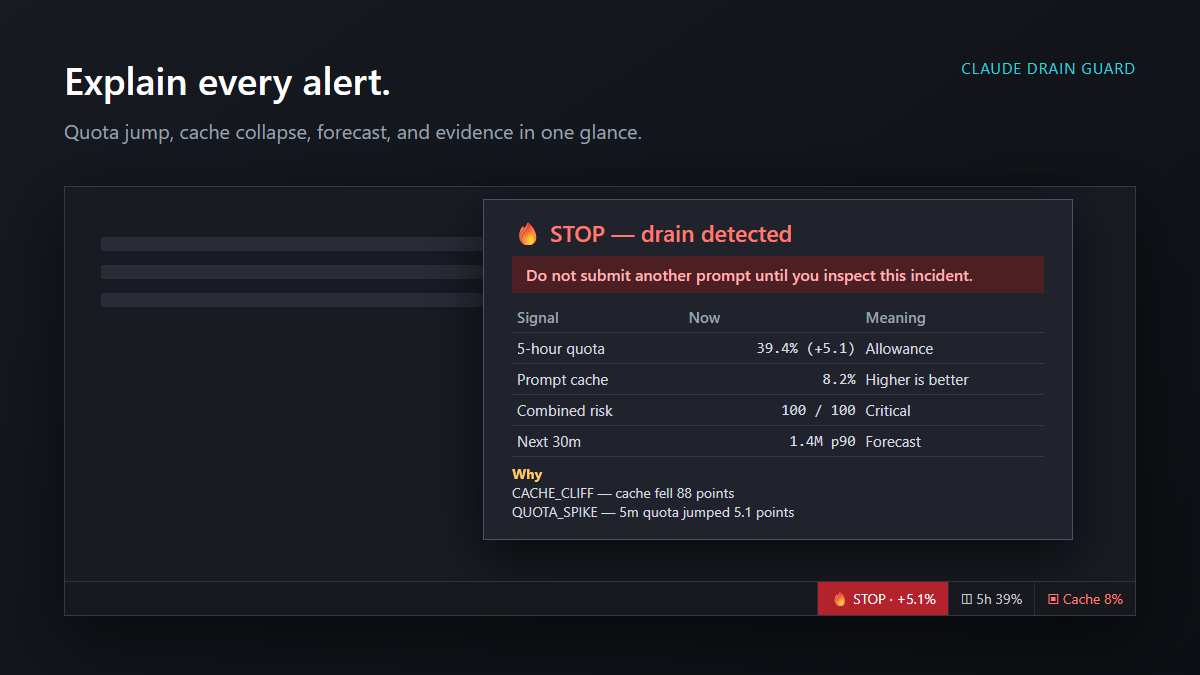
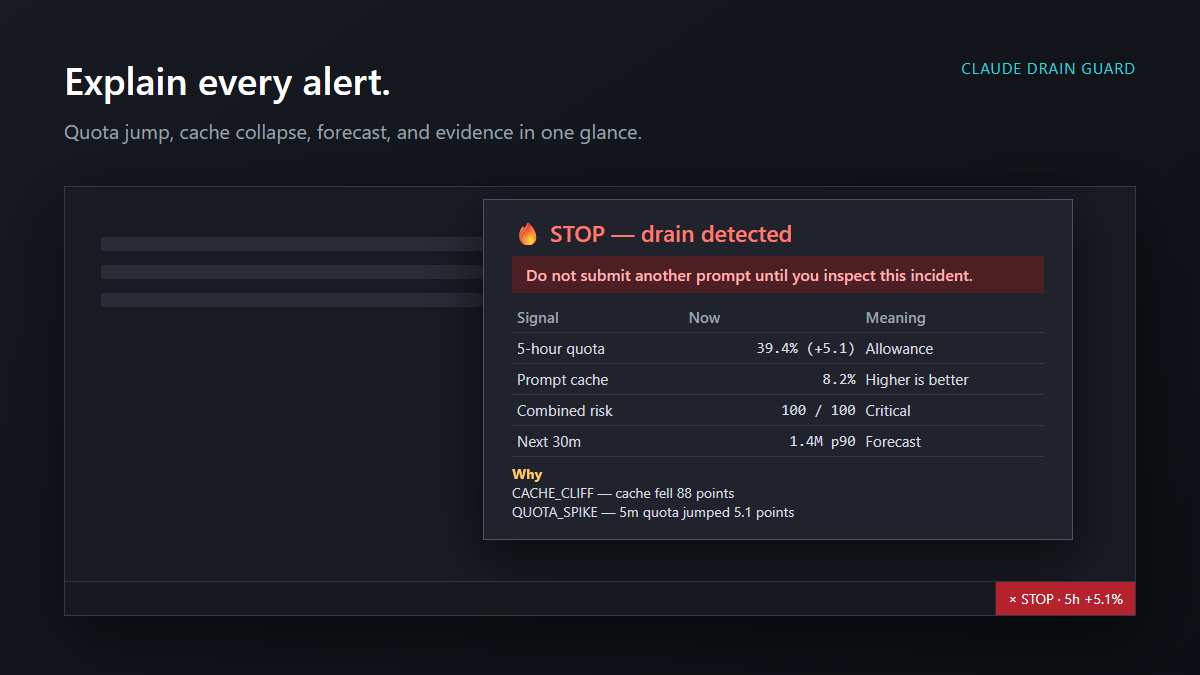
Redesign status bar and Marketplace visuals

Changed region(s): [[0.6783, 0.84, 0.9558, 0.9333]]

diff --git a/src/extension.js b/src/extension.js
@@ -23,15 +23,11 @@ class DrainGuard {
     this.alertState = { level: 'healthy', healthyStreak: 0 };
     this.scanTimer = null;
     const alignment = this.config.alignment === 'left' ? vscode.StatusBarAlignment.Left : vscode.StatusBarAlignment.Right;
-    this.healthStatus = vscode.window.createStatusBarItem('claudeDrainGuard.health', alignment, 92);
-    this.quotaStatus = vscode.window.createStatusBarItem('claudeDrainGuard.quota', alignment, 91);
-    this.cacheStatus = vscode.window.createStatusBarItem('claudeDrainGuard.cache', alignment, 90);
-    this.healthStatus.name = 'Claude Guard: health';
-    this.quotaStatus.name = 'Claude Guard: five-hour quota';
-    this.cacheStatus.name = 'Claude Guard: prompt cache';
-    for (const item of [this.healthStatus, this.quotaStatus, this.cacheStatus]) {
-      item.command = 'claudeDrainGuard.showDetails'; item.show(); context.subscriptions.push(item);
-    }
+    this.status = vscode.window.createStatusBarItem('claudeDrainGuard.status', alignment, 92);
+    this.status.name = 'Claude Drain Guard';
+    this.status.command = 'claudeDrainGuard.showDetails';
+    this.status.show();
+    context.subscriptions.push(this.status);
   }
 
   readConfig() {
@@ -157,29 +153,24 @@ class DrainGuard {
 
   render(turn, analysis) {
     if (!turn) {
-      this.healthStatus.text = '$(shield) Claude: idle';
-      this.healthStatus.tooltip = `Waiting for Claude Code activity in ${this.config.dataDirectory}`;
-      this.quotaStatus.hide(); this.cacheStatus.hide();
+      this.status.text = '$(shield) Guard · idle';
+      this.status.tooltip = `Claude Drain Guard\nWaiting for Claude Code activity.`;
+      this.status.backgroundColor = undefined;
       return;
     }
     const risk = analysis.displayRisk || analysis.risk;
-    const icon = risk === 'critical' ? '$(flame)' : risk === 'warning' ? '$(warning)' : '$(shield-check)';
     const quota = this.state.quotaSnapshots.at(-1);
     const delta = quota?.delta5h;
-    this.healthStatus.text = risk === 'critical'
-      ? `${icon} STOP${delta !== null && delta !== undefined ? ` · +${(delta * 100).toFixed(1)}%` : ''}`
-      : risk === 'warning' ? `${icon} WATCH · ${Math.round(analysis.score || 0)}` : `${icon} SAFE`;
-    this.healthStatus.backgroundColor = risk === 'critical' ? new vscode.ThemeColor('statusBarItem.errorBackground') : risk === 'warning' ? new vscode.ThemeColor('statusBarItem.warningBackground') : undefined;
-    this.cacheStatus.text = `$(database) Cache ${turn.cacheHit.toFixed(0)}%`;
-    this.cacheStatus.color = turn.cacheHit < 60 ? new vscode.ThemeColor('errorForeground') : turn.cacheHit < 80 ? new vscode.ThemeColor('editorWarning.foreground') : undefined;
-    this.cacheStatus.show();
-    if (quota) {
-      this.quotaStatus.text = `$(dashboard) 5h ${(quota.utilization5h * 100).toFixed(0)}%`;
-      this.quotaStatus.color = quota.utilization5h >= 0.9 ? new vscode.ThemeColor('errorForeground') : quota.utilization5h >= 0.7 ? new vscode.ThemeColor('editorWarning.foreground') : undefined;
-      this.quotaStatus.show();
-    } else this.quotaStatus.hide();
+    const quotaPart = quota ? `5h ${(quota.utilization5h * 100).toFixed(0)}%` : '5h —';
+    this.status.text = risk === 'critical'
+      ? `$(error) STOP · ${delta !== null && delta !== undefined ? `5h +${(delta * 100).toFixed(1)}%` : `Cache ${turn.cacheHit.toFixed(0)}%`}`
+      : risk === 'warning'
+        ? `$(warning) WATCH · Cache ${turn.cacheHit.toFixed(0)}%`
+        : `$(shield-check) ${quotaPart} · Cache ${turn.cacheHit.toFixed(0)}%`;
+    this.status.backgroundColor = risk === 'critical' ? new vscode.ThemeColor('statusBarItem.errorBackground') : risk === 'warning' ? new vscode.ThemeColor('statusBarItem.warningBackground') : undefined;
+    this.status.color = undefined;
     const tooltip = this.tooltip(turn, analysis);
-    this.healthStatus.tooltip = tooltip; this.quotaStatus.tooltip = tooltip; this.cacheStatus.tooltip = tooltip;
+    this.status.tooltip = tooltip;
   }
 
   tooltip(turn, analysis) {
@@ -187,15 +178,15 @@ class DrainGuard {
     const issues = (analysis.alerts || []).map(a => `- **${a.code}** — ${a.text}`).join('\n') || 'No anomaly detected.';
     const quota = this.state.quotaSnapshots.at(-1);
     const risk = analysis.displayRisk || analysis.risk;
-    const heading = risk === 'critical' ? '🔥 STOP — drain detected' : risk === 'warning' ? '⚠ WATCH — unusual activity' : '✅ SAFE — no drain detected';
+    const heading = risk === 'critical' ? 'STOP — drain detected' : risk === 'warning' ? 'WATCH — unusual activity' : 'Healthy';
     const quotaRow = quota ? `${(quota.utilization5h * 100).toFixed(1)}%${quota.delta5h === null || quota.delta5h === undefined ? '' : ` (+${(quota.delta5h * 100).toFixed(1)} pts / 5m)`}` : this.config.quotaEnabled ? 'Unavailable' : 'Off';
     const next = analysis.forecast ? `${compact(analysis.forecast.p50)} median / ${compact(analysis.forecast.p90)} p90` : 'Learning';
     const markdown = new vscode.MarkdownString(undefined, true);
-    markdown.appendMarkdown(`### ${heading}\n\n`);
-    if (risk === 'critical') markdown.appendMarkdown('**Do not submit another prompt until you inspect this incident.**\n\n');
-    markdown.appendMarkdown(`| Signal | Now | Meaning |\n|---|---:|---|\n| 5-hour quota | ${quotaRow} | Subscription allowance |\n| Prompt cache | ${turn.cacheHit.toFixed(1)}% | Higher is better |\n| Risk | ${Math.round(analysis.score || 0)}/100 | Combined anomaly score |\n| Current 5m | ${compact(slice?.fresh || 0)} fresh | ${slice?.calls || 0} calls |\n| Next 30m | ${next} | Bootstrap forecast |\n\n`);
-    markdown.appendMarkdown(`**Why**\n\n${issues}\n\n`);
-    markdown.appendMarkdown(`_${turn.model} · ${turn.project} · ${turn.contextBucket} context bucket_`);
+    markdown.appendMarkdown(`### Claude Drain Guard · ${heading}\n\n`);
+    if (risk === 'critical') markdown.appendMarkdown('**Pause before sending another prompt. Open the incident details first.**\n\n');
+    markdown.appendMarkdown(`| | Current |\n|---|---:|\n| **5-hour allowance** | ${quotaRow} |\n| **Cache hit** | ${turn.cacheHit.toFixed(1)}% |\n| **Five-minute fresh input** | ${compact(slice?.fresh || 0)} · ${slice?.calls || 0} calls |\n| **Risk score** | ${Math.round(analysis.score || 0)} / 100 |\n| **Next 30 minutes** | ${next} |\n\n`);
+    if (analysis.alerts?.length) markdown.appendMarkdown(`**What changed**\n\n${issues}\n\n`);
+    markdown.appendMarkdown(`---\n\n_${turn.model} · ${turn.project} · ${turn.contextBucket} context · click for recent activity_`);
     return markdown;
   }
 
@@ -231,8 +222,16 @@ class DrainGuard {
 
   showDetails() {
     const turns = this.state.turns.slice(-10).reverse();
-    const lines = turns.map(t => `${new Date(t.timestamp).toLocaleTimeString()}  cache ${t.cacheHit.toFixed(0)}%  fresh ${compact(t.fresh)}  out ${compact(t.output)}${t.alerts?.length ? `  ⚠ ${t.alerts.map(a => a.code).join(', ')}` : ''}`);
-    vscode.window.showQuickPick(lines.length ? lines : ['No Claude turns observed yet'], { title: 'Claude Drain Guard — latest turns', placeHolder: 'Five-minute slices are retained for 24 hours' });
+    const items = turns.map(t => ({
+      label: `${t.risk === 'critical' ? '$(error)' : t.risk === 'warning' ? '$(warning)' : '$(check)'} ${new Date(t.timestamp).toLocaleTimeString()} · ${t.risk === 'critical' ? 'Critical' : t.risk === 'warning' ? 'Watch' : 'Healthy'}`,
+      description: `Cache ${t.cacheHit.toFixed(0)}% · ${compact(t.fresh)} fresh`,
+      detail: `${t.model} · risk ${Math.round(t.riskScore || 0)}/100${t.alerts?.length ? ` · ${t.alerts.map(a => a.code).join(', ')}` : ''}`,
+      turn: t
+    }));
+    const actions = [{ label: '$(file-text) Generate incident report', description: 'Save evidence as Markdown', report: true }, ...items];
+    vscode.window.showQuickPick(actions, { title: 'Claude Drain Guard', placeHolder: 'Recent activity · five-minute slices retained for 24 hours', matchOnDescription: true, matchOnDetail: true }).then(selected => {
+      if (selected?.report) this.openReport();
+    });
   }
 }
 

diff --git a/README.md b/README.md
@@ -6,11 +6,11 @@ A zero-dependency VS Code extension that watches Claude Code locally, aggregates
 
 ## Status bar
 
-Three independently hideable items keep healthy sessions quiet and make danger obvious:
+One progressive status item keeps healthy sessions quiet and makes danger obvious:
 
-- `SAFE`, `WATCH`, or `STOP` — the action to take now
-- `5h 39%` — authoritative allowance when the optional quota adapter is enabled
-- `Cache 97%` — the latest prompt-cache hit rate
+- Healthy: `5h 31% · Cache 97%`
+- Warning: `WATCH · Cache 54%`
+- Critical: `STOP · 5h +5.1%`
 
 ## Signals
 

diff --git a/CHANGELOG.md b/CHANGELOG.md
@@ -1,5 +1,12 @@
 # Changelog
 
+## 0.6.0
+
+- Replaced three competing status items with one cohesive, progressive status item.
+- Healthy state shows five-hour allowance and cache hit quietly.
+- Warning and critical states replace metrics with clear WATCH and STOP actions.
+- Redesigned the native Markdown hover and recent-activity Quick Pick.
+
 ## 0.5.2
 
 - Added three progressive-disclosure status-bar items: SAFE/WATCH/STOP, five-hour quota, and prompt cache.
